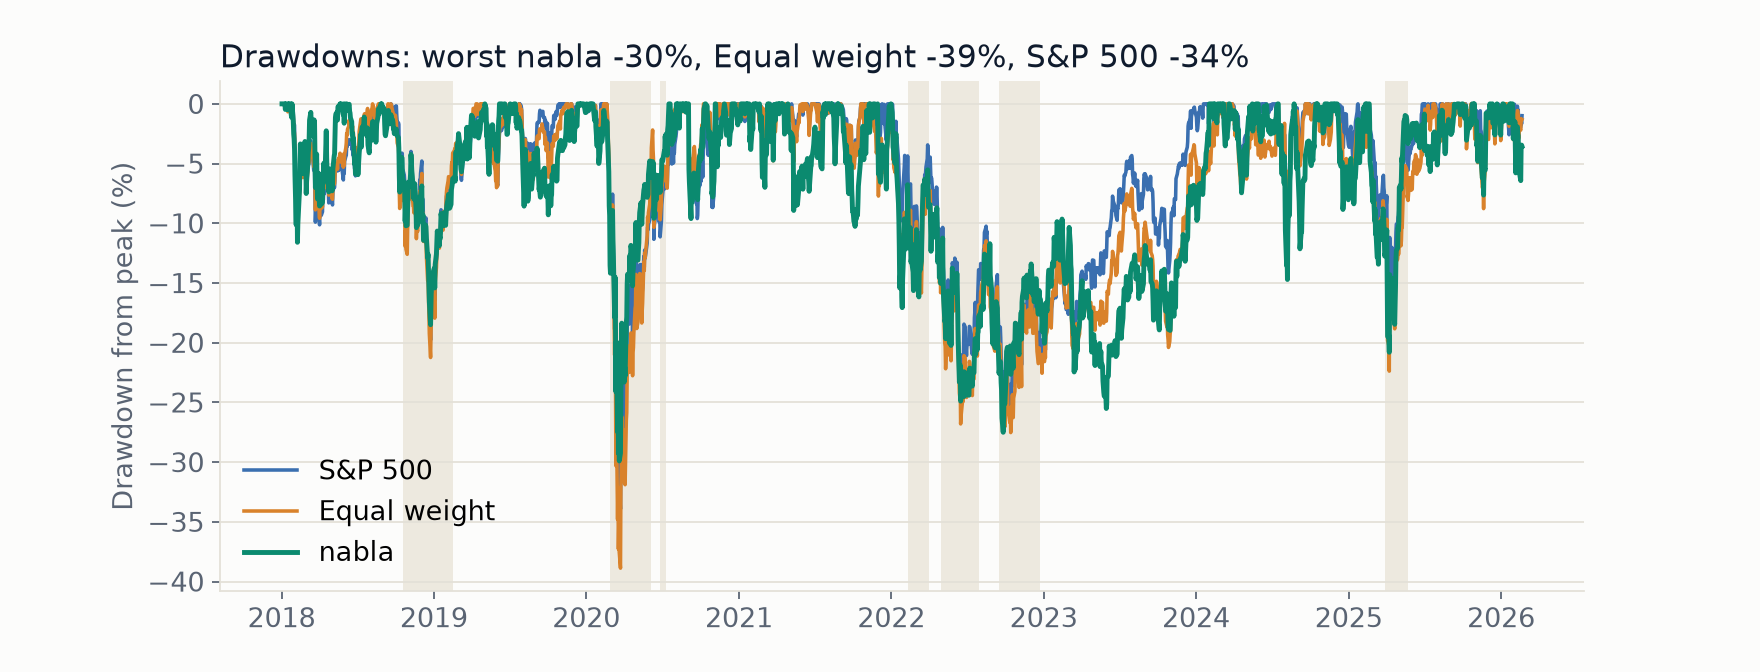
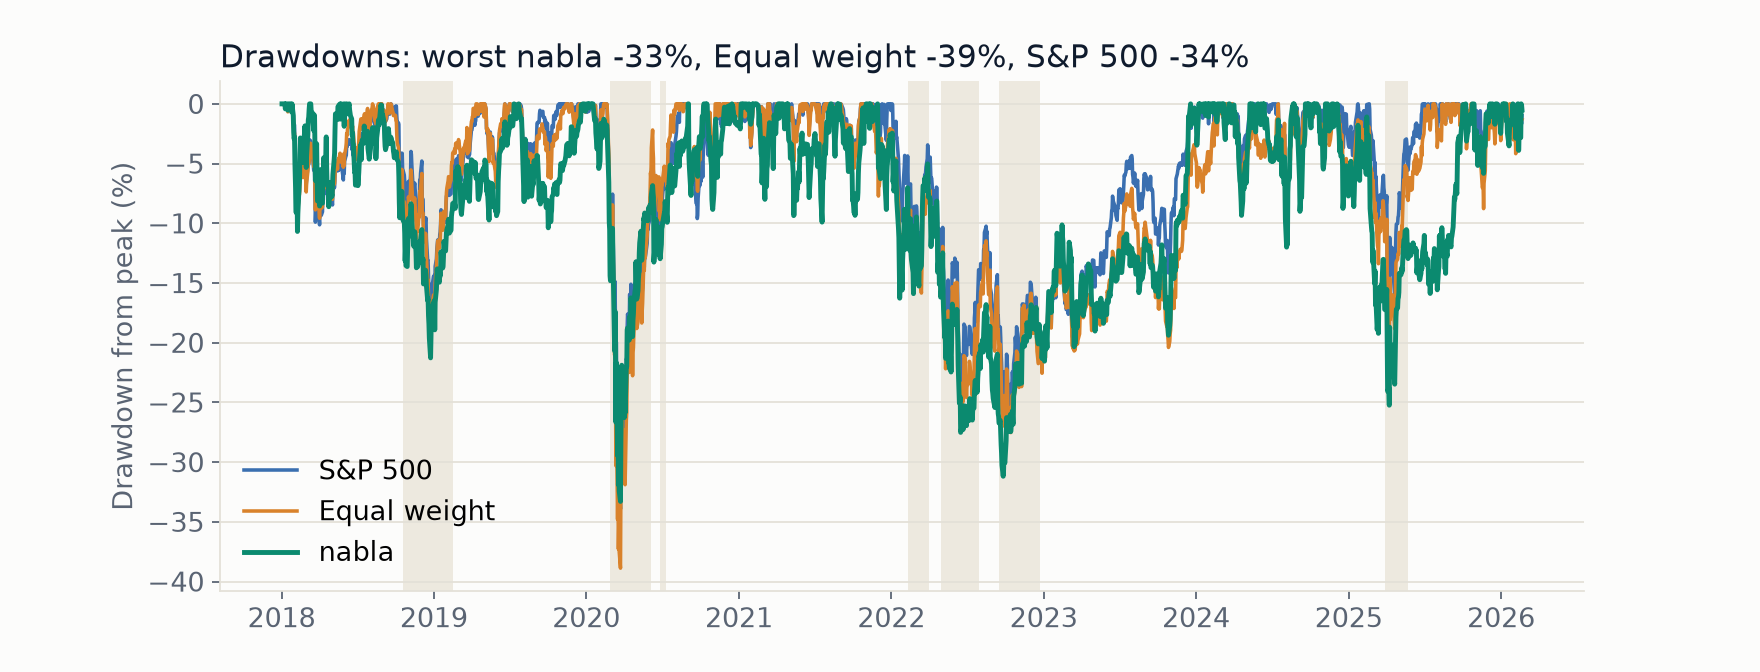
v1.3 charts (growth, drawdown, clusters, deck set) and live book rebuilt under v1.3
Claude-Session: https://claude.ai/code/session_01LBK97fEdk1jFLcCJnPRrCz

diff --git a/explore/10_deck_charts.py b/explore/10_deck_charts.py
@@ -75,12 +75,12 @@ ax.grid(axis="x", color=GRID, lw=0.8)
 fig.tight_layout()
 save(fig, "deck_noise.png")
 
-# 2. which signals earn their place (drop-one-factor backtest, docs/AUDIT.md)
-hbars(["All five signals", "Without momentum", "Without quality", "Without guidance",
-       "Without value", "Without volatility premium"],
-      [13.7, 7.3, 8.5, 11.7, 11.8, 19.2],
-      [GREY, ORANGE, ORANGE, ORANGE, ORANGE, TEAL],
-      "Return per year when one signal is removed (%)", ref=13.7, ref_label="all five", name="deck_factors.png")
+# 2. which signals earn their place (drop-one-factor backtest, v1.3, docs/AUDIT.md)
+hbars(["Four signals (shipped)", "Without momentum", "Without value", "Without quality", "Without guidance",
+       "Adding the volatility premium"],
+      [14.2, 10.4, 11.3, 15.0, 15.4, 15.0],
+      [INK, ORANGE, ORANGE, GREY, GREY, GREY],
+      "Return per year with one signal removed or added (%)", ref=14.2, ref_label="shipped", name="deck_factors.png")
 
 # 3. the current book: 15 names, none above 10%
 book = json.loads((ROOT / "config" / "book.json").read_text())
@@ -133,7 +133,7 @@ ax.annotate(f"with it: worst {dd['with'].min():.0%}", (dd["with"].idxmin(), dd["
             xytext=(40, 4), textcoords="offset points", color=TEAL, fontsize=14, va="center", fontweight="bold",
             arrowprops=dict(arrowstyle="-", color=TEAL, lw=0.8))
 ax.text(dd.index[0], 1.2, "shaded: weeks holding 25% cash", color=MUTED, fontsize=12, va="bottom")
-ax.set_ylim(-38, 3)
+ax.set_ylim(min(-38, dd.min().min() * 100 - 4), 3)
 ax.set_ylabel("Drop from peak (%)")
 ax.grid(axis="y", color=GRID, lw=0.8)
 fig.tight_layout()
@@ -142,10 +142,10 @@ print("worst drawdowns:", dd.min().round(3).to_dict())
 
 # 5. tests: our picks vs late data, random picks and the S&P
 hbars(["nabla", "nabla with data 1 day late", "Random picks, same rules (median of 20)", "S&P 500"],
-      [17.6, 13.7, 10.1, 12.4], [TEAL, GREY, GREY, BLUE],
+      [14.2, 12.4, 10.1, 12.4], [TEAL, GREY, GREY, BLUE],
       "Return per year, 2018 to 2026, after costs (%)", name="deck_tests.png")
 
 # 6. robustness: every variant vs the S&P
 hbars(["As shipped", "Trade at the next open", "Double trading costs", "Data one day late"],
-      [17.6, 19.0, 16.6, 13.7], [TEAL, TEAL, TEAL, TEAL],
+      [14.2, 13.2, 13.1, 12.4], [TEAL, TEAL, TEAL, GREY],
       "Return per year, 2018 to 2026, after costs (%)", ref=12.4, ref_label="S&P 500: 12.4%", name="deck_robust.png")
